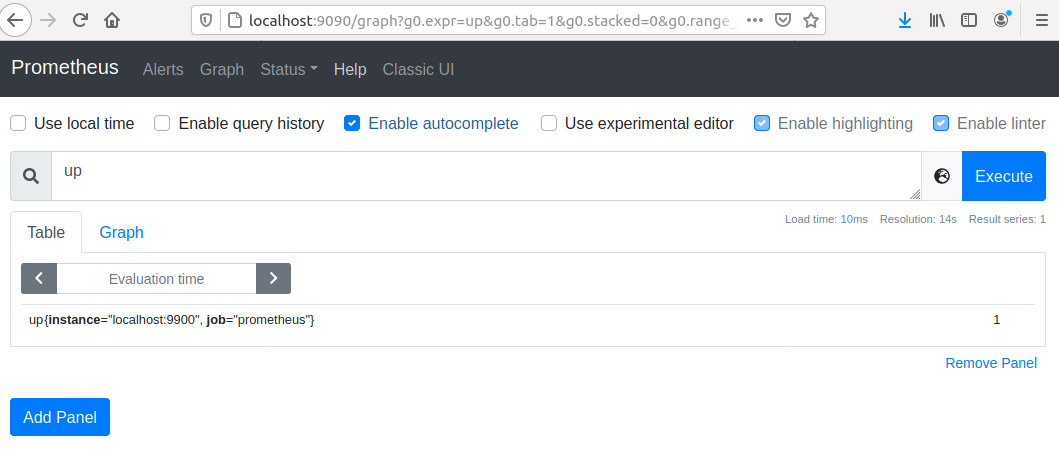
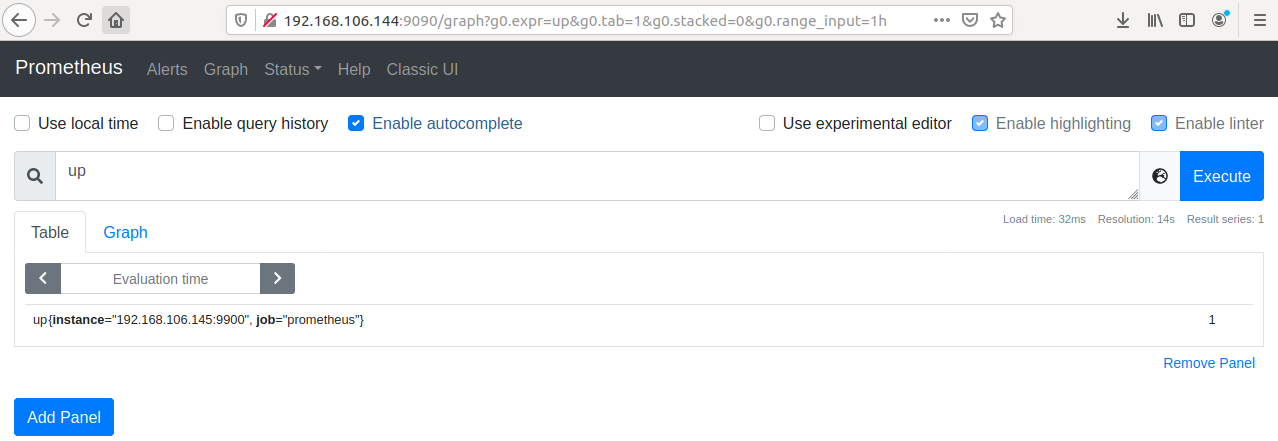
update to be more clear on remote setup

diff --git a/readme.md b/readme.md
@@ -55,16 +55,27 @@ Started RPC server at: 127.0.0.1:9500
 Started WS server at: 127.0.0.1:9800
 ```
 
-6. Curl to check if docker is running correctly
+6. Curl to check if harmony node is running correctly
 ```
-user@ubuntu:~$ curl localhost:9090
-<a href="/graph">Found</a>.
+user@ubuntu:~$ curl localhost:9900/metrics | grep ^hmy
+.
+.
+.
+hmy_stream_setup_stream_duration_bucket{topic="harmony/sync/localnet/0/1.0.0",le="0.32"} 783
+hmy_stream_setup_stream_duration_bucket{topic="harmony/sync/localnet/0/1.0.0",le="0.64"} 783
+hmy_stream_setup_stream_duration_bucket{topic="harmony/sync/localnet/0/1.0.0",le="1.28"} 783
+hmy_stream_setup_stream_duration_bucket{topic="harmony/sync/localnet/0/1.0.0",le="2.56"} 783
+hmy_stream_setup_stream_duration_bucket{topic="harmony/sync/localnet/0/1.0.0",le="+Inf"} 783
+hmy_stream_setup_stream_duration_sum{topic="harmony/sync/localnet/0/1.0.0"} 1.2891841450000003
+hmy_stream_setup_stream_duration_count{topic="harmony/sync/localnet/0/1.0.0"} 783
 ```
 
 # Setup of Prometheus
 7. Download and Unzip Prometheus from https://prometheus.io/download/
 
 8. Change Configuration Settings for Prometheus
+For me, my harmony node is running on "192.168.106.143"
+Change your settings to fit what you need.
 ```
 # my global config
 global:
@@ -94,13 +105,19 @@ scrape_configs:
     # scheme defaults to 'http'.
 
     static_configs:
-    - targets: ['localhost:9900']
+    - targets: ['192.168.106.143:9900']
 
 ```
+
+Run it
+```
+user@ubuntu:~/Downloads/prometheus-2.26.0.linux-amd64$ ./prometheus
+```
+
 
 9. Test that the Prometheus site is working
 ```
-Visit localhost:9090
+Visit http://192.168.106.144:9090 -> Remember that you need to use your own prometheus server ip
 You can enter up in the execute as shown in the picture below
 ```
 ![Prometheus](./img/prometheus.png)
@@ -118,7 +135,7 @@ user@ubuntu:~$ sudo /bin/systemctl start grafana-server
 
 11. Test that grafana works
 ```
-Browser: localhost:3000
+Browser:  http://192.168.106.144:3000
 default
 username: admin
 password: admin
